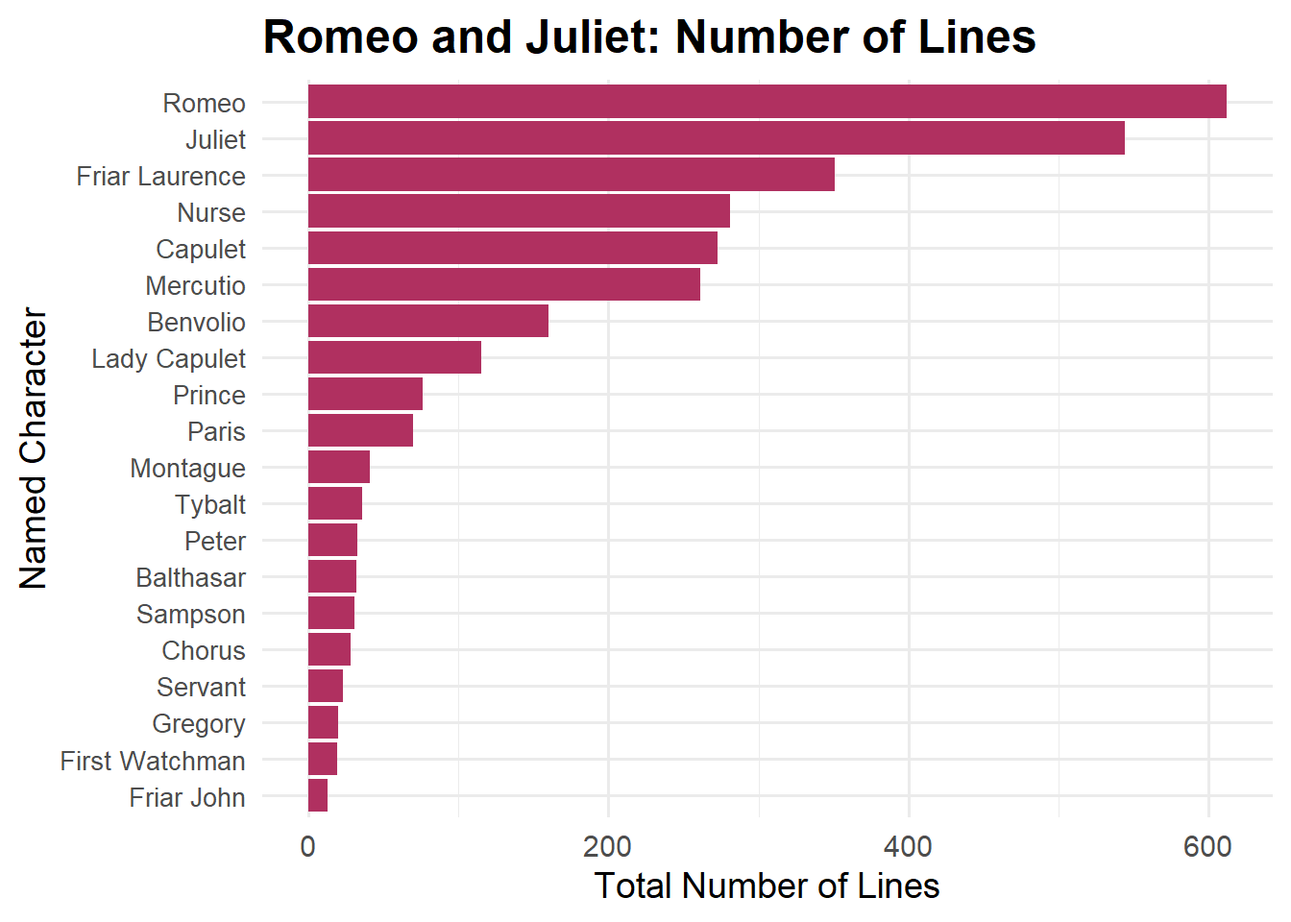
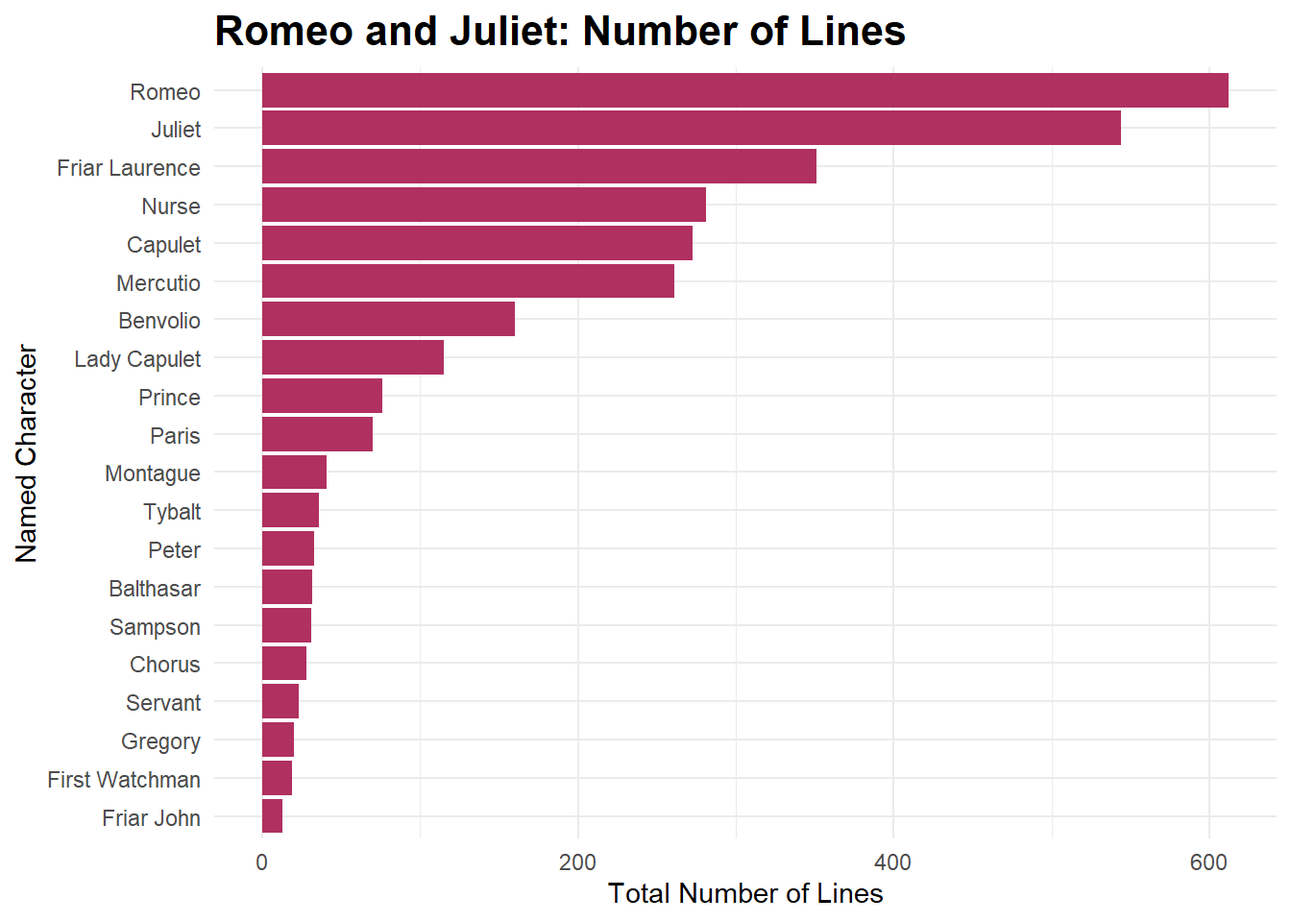
Added a lot of punctuation based graphs lol

diff --git a/docs/tidyv3.html b/docs/tidyv3.html
@@ -220,11 +220,12 @@ pre > code.sourceCode > span > a:first-child::before { text-decoration: underlin
 <span id="cb1-3"><a href="#cb1-3" aria-hidden="true" tabindex="-1"></a><span class="fu">library</span>(ggplot2)</span>
 <span id="cb1-4"><a href="#cb1-4" aria-hidden="true" tabindex="-1"></a><span class="fu">library</span>(dplyr)</span>
 <span id="cb1-5"><a href="#cb1-5" aria-hidden="true" tabindex="-1"></a><span class="fu">library</span>(stringr)</span>
-<span id="cb1-6"><a href="#cb1-6" aria-hidden="true" tabindex="-1"></a></span>
+<span id="cb1-6"><a href="#cb1-6" aria-hidden="true" tabindex="-1"></a><span class="fu">library</span>(forcats)</span>
 <span id="cb1-7"><a href="#cb1-7" aria-hidden="true" tabindex="-1"></a></span>
-<span id="cb1-8"><a href="#cb1-8" aria-hidden="true" tabindex="-1"></a>hamlet <span class="ot">&lt;-</span> readr<span class="sc">::</span><span class="fu">read_csv</span>(<span class="st">'https://raw.githubusercontent.com/rfordatascience/tidytuesday/main/data/2024/2024-09-17/hamlet.csv'</span>)</span>
-<span id="cb1-9"><a href="#cb1-9" aria-hidden="true" tabindex="-1"></a>macbeth <span class="ot">&lt;-</span> readr<span class="sc">::</span><span class="fu">read_csv</span>(<span class="st">'https://raw.githubusercontent.com/rfordatascience/tidytuesday/main/data/2024/2024-09-17/macbeth.csv'</span>)</span>
-<span id="cb1-10"><a href="#cb1-10" aria-hidden="true" tabindex="-1"></a>romeo_juliet <span class="ot">&lt;-</span> readr<span class="sc">::</span><span class="fu">read_csv</span>(<span class="st">'https://raw.githubusercontent.com/rfordatascience/tidytuesday/main/data/2024/2024-09-17/romeo_juliet.csv'</span>)</span></code><button title="Copy to Clipboard" class="code-copy-button"><i class="bi"></i></button></pre></div>
+<span id="cb1-8"><a href="#cb1-8" aria-hidden="true" tabindex="-1"></a></span>
+<span id="cb1-9"><a href="#cb1-9" aria-hidden="true" tabindex="-1"></a>hamlet <span class="ot">&lt;-</span> readr<span class="sc">::</span><span class="fu">read_csv</span>(<span class="st">'https://raw.githubusercontent.com/rfordatascience/tidytuesday/main/data/2024/2024-09-17/hamlet.csv'</span>)</span>
+<span id="cb1-10"><a href="#cb1-10" aria-hidden="true" tabindex="-1"></a>macbeth <span class="ot">&lt;-</span> readr<span class="sc">::</span><span class="fu">read_csv</span>(<span class="st">'https://raw.githubusercontent.com/rfordatascience/tidytuesday/main/data/2024/2024-09-17/macbeth.csv'</span>)</span>
+<span id="cb1-11"><a href="#cb1-11" aria-hidden="true" tabindex="-1"></a>romeo_juliet <span class="ot">&lt;-</span> readr<span class="sc">::</span><span class="fu">read_csv</span>(<span class="st">'https://raw.githubusercontent.com/rfordatascience/tidytuesday/main/data/2024/2024-09-17/romeo_juliet.csv'</span>)</span></code><button title="Copy to Clipboard" class="code-copy-button"><i class="bi"></i></button></pre></div>
 </details>
 </div>
 <div class="cell">
@@ -251,7 +252,9 @@ pre > code.sourceCode > span > a:first-child::before { text-decoration: underlin
 <span id="cb2-19"><a href="#cb2-19" aria-hidden="true" tabindex="-1"></a>  <span class="fu">theme</span>(</span>
 <span id="cb2-20"><a href="#cb2-20" aria-hidden="true" tabindex="-1"></a>    <span class="at">plot.title =</span> <span class="fu">element_text</span>(<span class="at">size =</span> <span class="dv">18</span>, <span class="at">face =</span> <span class="st">"bold"</span>),</span>
 <span id="cb2-21"><a href="#cb2-21" aria-hidden="true" tabindex="-1"></a>    <span class="at">axis.text.y =</span> <span class="fu">element_text</span>(<span class="at">size =</span> <span class="dv">10</span>)</span>
-<span id="cb2-22"><a href="#cb2-22" aria-hidden="true" tabindex="-1"></a>  )</span></code><button title="Copy to Clipboard" class="code-copy-button"><i class="bi"></i></button></pre></div>
+<span id="cb2-22"><a href="#cb2-22" aria-hidden="true" tabindex="-1"></a>  ) <span class="sc">+</span> </span>
+<span id="cb2-23"><a href="#cb2-23" aria-hidden="true" tabindex="-1"></a>  <span class="fu">theme_minimal</span>() <span class="sc">+</span> </span>
+<span id="cb2-24"><a href="#cb2-24" aria-hidden="true" tabindex="-1"></a>  <span class="fu">theme</span>(<span class="at">plot.title =</span> <span class="fu">element_text</span>(<span class="at">size =</span> <span class="dv">16</span>, <span class="at">face =</span> <span class="st">"bold"</span>))</span></code><button title="Copy to Clipboard" class="code-copy-button"><i class="bi"></i></button></pre></div>
 </details>
 <div class="cell-output-display">
 <div>
@@ -285,7 +288,9 @@ pre > code.sourceCode > span > a:first-child::before { text-decoration: underlin
 <span id="cb3-19"><a href="#cb3-19" aria-hidden="true" tabindex="-1"></a>  <span class="fu">theme</span>(</span>
 <span id="cb3-20"><a href="#cb3-20" aria-hidden="true" tabindex="-1"></a>    <span class="at">plot.title =</span> <span class="fu">element_text</span>(<span class="at">size =</span> <span class="dv">18</span>, <span class="at">face =</span> <span class="st">"bold"</span>),</span>
 <span id="cb3-21"><a href="#cb3-21" aria-hidden="true" tabindex="-1"></a>    <span class="at">axis.text.y =</span> <span class="fu">element_text</span>(<span class="at">size =</span> <span class="dv">10</span>)</span>
-<span id="cb3-22"><a href="#cb3-22" aria-hidden="true" tabindex="-1"></a>  )</span></code><button title="Copy to Clipboard" class="code-copy-button"><i class="bi"></i></button></pre></div>
+<span id="cb3-22"><a href="#cb3-22" aria-hidden="true" tabindex="-1"></a>  ) <span class="sc">+</span> </span>
+<span id="cb3-23"><a href="#cb3-23" aria-hidden="true" tabindex="-1"></a>  <span class="fu">theme_minimal</span>() <span class="sc">+</span> </span>
+<span id="cb3-24"><a href="#cb3-24" aria-hidden="true" tabindex="-1"></a>  <span class="fu">theme</span>(<span class="at">plot.title =</span> <span class="fu">element_text</span>(<span class="at">size =</span> <span class="dv">16</span>, <span class="at">face =</span> <span class="st">"bold"</span>))</span></code><button title="Copy to Clipboard" class="code-copy-button"><i class="bi"></i></button></pre></div>
 </details>
 <div class="cell-output-display">
 <div>
@@ -319,7 +324,9 @@ pre > code.sourceCode > span > a:first-child::before { text-decoration: underlin
 <span id="cb4-19"><a href="#cb4-19" aria-hidden="true" tabindex="-1"></a>  <span class="fu">theme</span>(</span>
 <span id="cb4-20"><a href="#cb4-20" aria-hidden="true" tabindex="-1"></a>    <span class="at">plot.title =</span> <span class="fu">element_text</span>(<span class="at">size =</span> <span class="dv">18</span>, <span class="at">face =</span> <span class="st">"bold"</span>),</span>
 <span id="cb4-21"><a href="#cb4-21" aria-hidden="true" tabindex="-1"></a>    <span class="at">axis.text.y =</span> <span class="fu">element_text</span>(<span class="at">size =</span> <span class="dv">10</span>)</span>
-<span id="cb4-22"><a href="#cb4-22" aria-hidden="true" tabindex="-1"></a>  )</span></code><button title="Copy to Clipboard" class="code-copy-button"><i class="bi"></i></button></pre></div>
+<span id="cb4-22"><a href="#cb4-22" aria-hidden="true" tabindex="-1"></a>  ) <span class="sc">+</span> </span>
+<span id="cb4-23"><a href="#cb4-23" aria-hidden="true" tabindex="-1"></a>  <span class="fu">theme_minimal</span>() <span class="sc">+</span> </span>
+<span id="cb4-24"><a href="#cb4-24" aria-hidden="true" tabindex="-1"></a>  <span class="fu">theme</span>(<span class="at">plot.title =</span> <span class="fu">element_text</span>(<span class="at">size =</span> <span class="dv">16</span>, <span class="at">face =</span> <span class="st">"bold"</span>))</span></code><button title="Copy to Clipboard" class="code-copy-button"><i class="bi"></i></button></pre></div>
 </details>
 <div class="cell-output-display">
 <div>
@@ -339,37 +346,22 @@ pre > code.sourceCode > span > a:first-child::before { text-decoration: underlin
 <span id="cb5-5"><a href="#cb5-5" aria-hidden="true" tabindex="-1"></a>)</span>
 <span id="cb5-6"><a href="#cb5-6" aria-hidden="true" tabindex="-1"></a></span>
 <span id="cb5-7"><a href="#cb5-7" aria-hidden="true" tabindex="-1"></a></span>
-<span id="cb5-8"><a href="#cb5-8" aria-hidden="true" tabindex="-1"></a>tragedies_clean <span class="ot">&lt;-</span> tragedies <span class="sc">|&gt;</span></span>
-<span id="cb5-9"><a href="#cb5-9" aria-hidden="true" tabindex="-1"></a>  <span class="fu">mutate</span>(</span>
-<span id="cb5-10"><a href="#cb5-10" aria-hidden="true" tabindex="-1"></a>    <span class="at">dialogue_clean =</span> <span class="fu">str_replace_all</span>(</span>
-<span id="cb5-11"><a href="#cb5-11" aria-hidden="true" tabindex="-1"></a>      dialogue,</span>
-<span id="cb5-12"><a href="#cb5-12" aria-hidden="true" tabindex="-1"></a>      <span class="st">"(?&lt;=</span><span class="sc">\\</span><span class="st">[).*?(?=</span><span class="sc">\\</span><span class="st">])"</span>,  </span>
-<span id="cb5-13"><a href="#cb5-13" aria-hidden="true" tabindex="-1"></a>      <span class="st">""</span>                     </span>
-<span id="cb5-14"><a href="#cb5-14" aria-hidden="true" tabindex="-1"></a>    ), </span>
-<span id="cb5-15"><a href="#cb5-15" aria-hidden="true" tabindex="-1"></a>    <span class="at">dialogue_clean =</span> <span class="fu">str_replace_all</span>(dialogue_clean, <span class="st">"</span><span class="sc">\\</span><span class="st">[</span><span class="sc">\\</span><span class="st">]"</span>, <span class="st">""</span>) </span>
-<span id="cb5-16"><a href="#cb5-16" aria-hidden="true" tabindex="-1"></a>  )</span>
-<span id="cb5-17"><a href="#cb5-17" aria-hidden="true" tabindex="-1"></a></span>
-<span id="cb5-18"><a href="#cb5-18" aria-hidden="true" tabindex="-1"></a></span>
-<span id="cb5-19"><a href="#cb5-19" aria-hidden="true" tabindex="-1"></a>tragedies_names <span class="ot">&lt;-</span> tragedies_clean <span class="sc">|&gt;</span></span>
-<span id="cb5-20"><a href="#cb5-20" aria-hidden="true" tabindex="-1"></a>  <span class="fu">mutate</span>(</span>
-<span id="cb5-21"><a href="#cb5-21" aria-hidden="true" tabindex="-1"></a>    <span class="at">capitalized_words =</span> <span class="fu">str_extract_all</span>(dialogue_clean, <span class="st">"</span><span class="sc">\\</span><span class="st">b[A-Z][a-z]+</span><span class="sc">\\</span><span class="st">b"</span>)</span>
-<span id="cb5-22"><a href="#cb5-22" aria-hidden="true" tabindex="-1"></a>  )</span>
-<span id="cb5-23"><a href="#cb5-23" aria-hidden="true" tabindex="-1"></a></span>
-<span id="cb5-24"><a href="#cb5-24" aria-hidden="true" tabindex="-1"></a></span>
-<span id="cb5-25"><a href="#cb5-25" aria-hidden="true" tabindex="-1"></a>tragedies_questions <span class="ot">&lt;-</span> tragedies_clean <span class="sc">|&gt;</span></span>
-<span id="cb5-26"><a href="#cb5-26" aria-hidden="true" tabindex="-1"></a>  <span class="fu">mutate</span>(<span class="at">num_questions =</span> <span class="fu">str_count</span>(dialogue_clean, <span class="st">"</span><span class="sc">\\</span><span class="st">?"</span>))</span>
-<span id="cb5-27"><a href="#cb5-27" aria-hidden="true" tabindex="-1"></a></span>
-<span id="cb5-28"><a href="#cb5-28" aria-hidden="true" tabindex="-1"></a></span>
-<span id="cb5-29"><a href="#cb5-29" aria-hidden="true" tabindex="-1"></a>tragedies_questions <span class="sc">|&gt;</span></span>
-<span id="cb5-30"><a href="#cb5-30" aria-hidden="true" tabindex="-1"></a>  <span class="fu">group_by</span>(play) <span class="sc">|&gt;</span></span>
-<span id="cb5-31"><a href="#cb5-31" aria-hidden="true" tabindex="-1"></a>  <span class="fu">summarize</span>(<span class="at">avg_questions =</span> <span class="fu">mean</span>(num_questions)) <span class="sc">|&gt;</span></span>
-<span id="cb5-32"><a href="#cb5-32" aria-hidden="true" tabindex="-1"></a>  <span class="fu">ggplot</span>(<span class="fu">aes</span>(<span class="at">x =</span> play, <span class="at">y =</span> avg_questions, <span class="at">fill =</span> play)) <span class="sc">+</span></span>
-<span id="cb5-33"><a href="#cb5-33" aria-hidden="true" tabindex="-1"></a>  <span class="fu">geom_col</span>(<span class="at">show.legend =</span> <span class="cn">FALSE</span>) <span class="sc">+</span></span>
-<span id="cb5-34"><a href="#cb5-34" aria-hidden="true" tabindex="-1"></a>  <span class="fu">labs</span>(</span>
-<span id="cb5-35"><a href="#cb5-35" aria-hidden="true" tabindex="-1"></a>    <span class="at">title =</span> <span class="st">"Average Number of Questions per Line by Play"</span>, </span>
-<span id="cb5-36"><a href="#cb5-36" aria-hidden="true" tabindex="-1"></a>    <span class="at">x =</span> <span class="st">"Play"</span>, </span>
-<span id="cb5-37"><a href="#cb5-37" aria-hidden="true" tabindex="-1"></a>    <span class="at">y =</span> <span class="st">"Number of Questions"</span></span>
-<span id="cb5-38"><a href="#cb5-38" aria-hidden="true" tabindex="-1"></a>    )</span></code><button title="Copy to Clipboard" class="code-copy-button"><i class="bi"></i></button></pre></div>
+<span id="cb5-8"><a href="#cb5-8" aria-hidden="true" tabindex="-1"></a>tragedies_questions <span class="ot">&lt;-</span> tragedies <span class="sc">|&gt;</span></span>
+<span id="cb5-9"><a href="#cb5-9" aria-hidden="true" tabindex="-1"></a>  <span class="fu">mutate</span>(<span class="at">num_questions =</span> <span class="fu">str_count</span>(dialogue, <span class="st">"</span><span class="sc">\\</span><span class="st">?"</span>))</span>
+<span id="cb5-10"><a href="#cb5-10" aria-hidden="true" tabindex="-1"></a></span>
+<span id="cb5-11"><a href="#cb5-11" aria-hidden="true" tabindex="-1"></a></span>
+<span id="cb5-12"><a href="#cb5-12" aria-hidden="true" tabindex="-1"></a>tragedies_questions <span class="sc">|&gt;</span></span>
+<span id="cb5-13"><a href="#cb5-13" aria-hidden="true" tabindex="-1"></a>  <span class="fu">group_by</span>(play) <span class="sc">|&gt;</span></span>
+<span id="cb5-14"><a href="#cb5-14" aria-hidden="true" tabindex="-1"></a>  <span class="fu">summarize</span>(<span class="at">avg_questions =</span> <span class="fu">mean</span>(num_questions)) <span class="sc">|&gt;</span></span>
+<span id="cb5-15"><a href="#cb5-15" aria-hidden="true" tabindex="-1"></a>  <span class="fu">ggplot</span>(<span class="fu">aes</span>(<span class="at">x =</span> play, <span class="at">y =</span> avg_questions, <span class="at">fill =</span> play)) <span class="sc">+</span></span>
+<span id="cb5-16"><a href="#cb5-16" aria-hidden="true" tabindex="-1"></a>  <span class="fu">geom_col</span>(<span class="at">show.legend =</span> <span class="cn">FALSE</span>) <span class="sc">+</span></span>
+<span id="cb5-17"><a href="#cb5-17" aria-hidden="true" tabindex="-1"></a>  <span class="fu">labs</span>(</span>
+<span id="cb5-18"><a href="#cb5-18" aria-hidden="true" tabindex="-1"></a>    <span class="at">title =</span> <span class="st">"Average Number of Questions per Line by Play"</span>, </span>
+<span id="cb5-19"><a href="#cb5-19" aria-hidden="true" tabindex="-1"></a>    <span class="at">x =</span> <span class="st">"Play"</span>, </span>
+<span id="cb5-20"><a href="#cb5-20" aria-hidden="true" tabindex="-1"></a>    <span class="at">y =</span> <span class="st">"Number of Questions"</span></span>
+<span id="cb5-21"><a href="#cb5-21" aria-hidden="true" tabindex="-1"></a>    ) <span class="sc">+</span> </span>
+<span id="cb5-22"><a href="#cb5-22" aria-hidden="true" tabindex="-1"></a>  <span class="fu">theme_minimal</span>() <span class="sc">+</span> </span>
+<span id="cb5-23"><a href="#cb5-23" aria-hidden="true" tabindex="-1"></a>  <span class="fu">theme</span>(<span class="at">plot.title =</span> <span class="fu">element_text</span>(<span class="at">size =</span> <span class="dv">16</span>, <span class="at">face =</span> <span class="st">"bold"</span>))</span></code><button title="Copy to Clipboard" class="code-copy-button"><i class="bi"></i></button></pre></div>
 </details>
 <div class="cell-output-display">
 <div>
@@ -390,37 +382,140 @@ pre > code.sourceCode > span > a:first-child::before { text-decoration: underlin
 <span id="cb6-6"><a href="#cb6-6" aria-hidden="true" tabindex="-1"></a></span>
 <span id="cb6-7"><a href="#cb6-7" aria-hidden="true" tabindex="-1"></a></span>
 <span id="cb6-8"><a href="#cb6-8" aria-hidden="true" tabindex="-1"></a>tragedies_ghosts <span class="ot">&lt;-</span> tragedies <span class="sc">|&gt;</span></span>
-<span id="cb6-9"><a href="#cb6-9" aria-hidden="true" tabindex="-1"></a>  <span class="fu">filter</span>(<span class="fu">str_detect</span>(dialogue, <span class="fu">regex</span>(<span class="st">"</span><span class="sc">\\</span><span class="st">b(ghost|witch|spirit)</span><span class="sc">\\</span><span class="st">b"</span>, <span class="at">ignore_case =</span> <span class="cn">TRUE</span>)))</span>
-<span id="cb6-10"><a href="#cb6-10" aria-hidden="true" tabindex="-1"></a></span>
-<span id="cb6-11"><a href="#cb6-11" aria-hidden="true" tabindex="-1"></a></span>
-<span id="cb6-12"><a href="#cb6-12" aria-hidden="true" tabindex="-1"></a>ghost_mentions <span class="ot">&lt;-</span> tragedies_ghosts <span class="sc">|&gt;</span></span>
-<span id="cb6-13"><a href="#cb6-13" aria-hidden="true" tabindex="-1"></a>  <span class="fu">mutate</span>(</span>
-<span id="cb6-14"><a href="#cb6-14" aria-hidden="true" tabindex="-1"></a>    <span class="at">supernatural =</span> <span class="fu">str_extract</span>(</span>
-<span id="cb6-15"><a href="#cb6-15" aria-hidden="true" tabindex="-1"></a>      <span class="fu">str_to_lower</span>(dialogue),</span>
-<span id="cb6-16"><a href="#cb6-16" aria-hidden="true" tabindex="-1"></a>      <span class="st">"</span><span class="sc">\\</span><span class="st">b(ghost|witch|spirit)</span><span class="sc">\\</span><span class="st">b"</span></span>
-<span id="cb6-17"><a href="#cb6-17" aria-hidden="true" tabindex="-1"></a>    )</span>
-<span id="cb6-18"><a href="#cb6-18" aria-hidden="true" tabindex="-1"></a>  ) <span class="sc">|&gt;</span></span>
-<span id="cb6-19"><a href="#cb6-19" aria-hidden="true" tabindex="-1"></a>  <span class="fu">count</span>(play, supernatural, <span class="at">name =</span> <span class="st">"num_mentions"</span>)</span>
-<span id="cb6-20"><a href="#cb6-20" aria-hidden="true" tabindex="-1"></a></span>
-<span id="cb6-21"><a href="#cb6-21" aria-hidden="true" tabindex="-1"></a></span>
-<span id="cb6-22"><a href="#cb6-22" aria-hidden="true" tabindex="-1"></a><span class="fu">ggplot</span>(ghost_mentions, <span class="fu">aes</span>(<span class="at">x =</span> play, <span class="at">y =</span> num_mentions, <span class="at">fill =</span> supernatural)) <span class="sc">+</span></span>
-<span id="cb6-23"><a href="#cb6-23" aria-hidden="true" tabindex="-1"></a>  <span class="fu">geom_col</span>(<span class="at">position =</span> <span class="st">"dodge"</span>) <span class="sc">+</span></span>
-<span id="cb6-24"><a href="#cb6-24" aria-hidden="true" tabindex="-1"></a>  <span class="fu">labs</span>(</span>
-<span id="cb6-25"><a href="#cb6-25" aria-hidden="true" tabindex="-1"></a>    <span class="at">title =</span> <span class="st">"Mentions of 'Ghost', 'Witch', and 'Spirit' in Shakespeare's Tragedies"</span>,</span>
-<span id="cb6-26"><a href="#cb6-26" aria-hidden="true" tabindex="-1"></a>    <span class="at">x =</span> <span class="st">"Play"</span>,</span>
-<span id="cb6-27"><a href="#cb6-27" aria-hidden="true" tabindex="-1"></a>    <span class="at">y =</span> <span class="st">"Number of Mentions"</span>,</span>
-<span id="cb6-28"><a href="#cb6-28" aria-hidden="true" tabindex="-1"></a>    <span class="at">fill =</span> <span class="st">""</span></span>
-<span id="cb6-29"><a href="#cb6-29" aria-hidden="true" tabindex="-1"></a>  ) <span class="sc">+</span></span>
-<span id="cb6-30"><a href="#cb6-30" aria-hidden="true" tabindex="-1"></a>  <span class="fu">theme_minimal</span>(<span class="at">base_size =</span> <span class="dv">14</span>) <span class="sc">+</span></span>
-<span id="cb6-31"><a href="#cb6-31" aria-hidden="true" tabindex="-1"></a>  <span class="fu">theme</span>(</span>
-<span id="cb6-32"><a href="#cb6-32" aria-hidden="true" tabindex="-1"></a>    <span class="at">plot.title =</span> <span class="fu">element_text</span>(<span class="at">size =</span> <span class="dv">18</span>, <span class="at">face =</span> <span class="st">"bold"</span>),</span>
-<span id="cb6-33"><a href="#cb6-33" aria-hidden="true" tabindex="-1"></a>    <span class="at">legend.position =</span> <span class="st">"top"</span></span>
-<span id="cb6-34"><a href="#cb6-34" aria-hidden="true" tabindex="-1"></a>  )</span></code><button title="Copy to Clipboard" class="code-copy-button"><i class="bi"></i></button></pre></div>
+<span id="cb6-9"><a href="#cb6-9" aria-hidden="true" tabindex="-1"></a>  <span class="fu">filter</span>(<span class="fu">str_detect</span>(dialogue, <span class="st">"</span><span class="sc">\\</span><span class="st">b(ghost|witch|spirit)</span><span class="sc">\\</span><span class="st">b"</span>)) <span class="sc">|&gt;</span></span>
+<span id="cb6-10"><a href="#cb6-10" aria-hidden="true" tabindex="-1"></a>  <span class="fu">select</span>(play, dialogue) <span class="sc">|&gt;</span></span>
+<span id="cb6-11"><a href="#cb6-11" aria-hidden="true" tabindex="-1"></a>  <span class="fu">mutate</span>(<span class="at">supernatural =</span> <span class="fu">str_extract</span>(<span class="fu">str_to_lower</span>(dialogue), <span class="st">"</span><span class="sc">\\</span><span class="st">b(ghost|witch|spirit)</span><span class="sc">\\</span><span class="st">b"</span> )) <span class="sc">|&gt;</span></span>
+<span id="cb6-12"><a href="#cb6-12" aria-hidden="true" tabindex="-1"></a>  <span class="fu">count</span>(play, supernatural, <span class="at">name =</span> <span class="st">"num_mentions"</span>)</span>
+<span id="cb6-13"><a href="#cb6-13" aria-hidden="true" tabindex="-1"></a></span>
+<span id="cb6-14"><a href="#cb6-14" aria-hidden="true" tabindex="-1"></a></span>
+<span id="cb6-15"><a href="#cb6-15" aria-hidden="true" tabindex="-1"></a></span>
+<span id="cb6-16"><a href="#cb6-16" aria-hidden="true" tabindex="-1"></a><span class="fu">ggplot</span>(tragedies_ghosts, <span class="fu">aes</span>(<span class="at">x =</span> play, <span class="at">y =</span> num_mentions, <span class="at">fill =</span> supernatural)) <span class="sc">+</span></span>
+<span id="cb6-17"><a href="#cb6-17" aria-hidden="true" tabindex="-1"></a>  <span class="fu">geom_col</span>(<span class="at">position =</span> <span class="st">"dodge"</span>) <span class="sc">+</span></span>
+<span id="cb6-18"><a href="#cb6-18" aria-hidden="true" tabindex="-1"></a>  <span class="fu">labs</span>(</span>
+<span id="cb6-19"><a href="#cb6-19" aria-hidden="true" tabindex="-1"></a>    <span class="at">title =</span> <span class="st">"Mentions of 'Ghost', 'Witch', and 'Spirit' in Shakespeare's Tragedies"</span>,</span>
+<span id="cb6-20"><a href="#cb6-20" aria-hidden="true" tabindex="-1"></a>    <span class="at">x =</span> <span class="st">"Play"</span>,</span>
+<span id="cb6-21"><a href="#cb6-21" aria-hidden="true" tabindex="-1"></a>    <span class="at">y =</span> <span class="st">"Number of Mentions"</span>,</span>
+<span id="cb6-22"><a href="#cb6-22" aria-hidden="true" tabindex="-1"></a>    <span class="at">fill =</span> <span class="st">""</span> </span>
+<span id="cb6-23"><a href="#cb6-23" aria-hidden="true" tabindex="-1"></a>    ) <span class="sc">+</span> </span>
+<span id="cb6-24"><a href="#cb6-24" aria-hidden="true" tabindex="-1"></a>  <span class="fu">theme_minimal</span>() <span class="sc">+</span> </span>
+<span id="cb6-25"><a href="#cb6-25" aria-hidden="true" tabindex="-1"></a>  <span class="fu">theme</span>(<span class="at">plot.title =</span> <span class="fu">element_text</span>(<span class="at">size =</span> <span class="dv">16</span>, <span class="at">face =</span> <span class="st">"bold"</span>))</span></code><button title="Copy to Clipboard" class="code-copy-button"><i class="bi"></i></button></pre></div>
 </details>
 <div class="cell-output-display">
 <div>
 <figure class="figure">
 <p><img src="tidyv3_files/figure-html/unnamed-chunk-6-1.png" class="img-fluid figure-img" width="672"></p>
+</figure>
+</div>
+</div>
+</div>
+<div class="cell">
+<details class="code-fold">
+<summary>Show the code</summary>
+<div class="sourceCode cell-code" id="cb7"><pre class="sourceCode r code-with-copy"><code class="sourceCode r"><span id="cb7-1"><a href="#cb7-1" aria-hidden="true" tabindex="-1"></a>tragedies_exclaim <span class="ot">&lt;-</span> tragedies <span class="sc">|&gt;</span></span>
+<span id="cb7-2"><a href="#cb7-2" aria-hidden="true" tabindex="-1"></a>  <span class="fu">filter</span>(<span class="fu">str_detect</span>(dialogue, <span class="st">"(?i)</span><span class="sc">\\</span><span class="st">bHamlet!+|Macbeth!+|Romeo!+|Juliet!+"</span>)) <span class="sc">|&gt;</span></span>
+<span id="cb7-3"><a href="#cb7-3" aria-hidden="true" tabindex="-1"></a>  <span class="fu">mutate</span>(<span class="at">exclamations =</span> <span class="fu">str_extract</span>(dialogue, <span class="st">"(?i)</span><span class="sc">\\</span><span class="st">bHamlet!+|Macbeth!+|Romeo!+|Juliet!+"</span>)) <span class="sc">|&gt;</span></span>
+<span id="cb7-4"><a href="#cb7-4" aria-hidden="true" tabindex="-1"></a>  <span class="fu">count</span>(play, exclamations, <span class="at">name =</span> <span class="st">"num_exclaim"</span>) <span class="sc">|&gt;</span></span>
+<span id="cb7-5"><a href="#cb7-5" aria-hidden="true" tabindex="-1"></a>  <span class="fu">mutate</span>(<span class="at">exclamations =</span> <span class="fu">fct_relevel</span>(exclamations, <span class="fu">c</span>(<span class="st">"Hamlet!"</span>, <span class="st">"Macbeth!"</span>, <span class="st">"Romeo!"</span>, <span class="st">"Juliet!"</span>)))</span>
+<span id="cb7-6"><a href="#cb7-6" aria-hidden="true" tabindex="-1"></a></span>
+<span id="cb7-7"><a href="#cb7-7" aria-hidden="true" tabindex="-1"></a></span>
+<span id="cb7-8"><a href="#cb7-8" aria-hidden="true" tabindex="-1"></a></span>
+<span id="cb7-9"><a href="#cb7-9" aria-hidden="true" tabindex="-1"></a><span class="fu">ggplot</span>(tragedies_exclaim, <span class="fu">aes</span>(<span class="at">x =</span> exclamations, <span class="at">y =</span> num_exclaim, <span class="at">fill =</span> exclamations)) <span class="sc">+</span></span>
+<span id="cb7-10"><a href="#cb7-10" aria-hidden="true" tabindex="-1"></a>  <span class="fu">geom_col</span>(<span class="at">position =</span> <span class="st">"dodge"</span>) <span class="sc">+</span></span>
+<span id="cb7-11"><a href="#cb7-11" aria-hidden="true" tabindex="-1"></a>  <span class="fu">labs</span>(</span>
+<span id="cb7-12"><a href="#cb7-12" aria-hidden="true" tabindex="-1"></a>    <span class="at">title =</span> <span class="st">"Number of times the main character's name is exclaimed"</span>,</span>
+<span id="cb7-13"><a href="#cb7-13" aria-hidden="true" tabindex="-1"></a>    <span class="at">x =</span> <span class="st">"Play"</span>,</span>
+<span id="cb7-14"><a href="#cb7-14" aria-hidden="true" tabindex="-1"></a>    <span class="at">y =</span> <span class="st">"Number of Mentions"</span>,</span>
+<span id="cb7-15"><a href="#cb7-15" aria-hidden="true" tabindex="-1"></a>    <span class="at">fill =</span> <span class="st">""</span> </span>
+<span id="cb7-16"><a href="#cb7-16" aria-hidden="true" tabindex="-1"></a>    ) <span class="sc">+</span></span>
+<span id="cb7-17"><a href="#cb7-17" aria-hidden="true" tabindex="-1"></a>  <span class="fu">theme_minimal</span>() <span class="sc">+</span> </span>
+<span id="cb7-18"><a href="#cb7-18" aria-hidden="true" tabindex="-1"></a>  <span class="fu">theme</span>(<span class="at">plot.title =</span> <span class="fu">element_text</span>(<span class="at">size =</span> <span class="dv">16</span>, <span class="at">face =</span> <span class="st">"bold"</span>))</span></code><button title="Copy to Clipboard" class="code-copy-button"><i class="bi"></i></button></pre></div>
+</details>
+<div class="cell-output-display">
+<div>
+<figure class="figure">
+<p><img src="tidyv3_files/figure-html/unnamed-chunk-7-1.png" class="img-fluid figure-img" width="672"></p>
+</figure>
+</div>
+</div>
+</div>
+<div class="cell">
+<details class="code-fold">
+<summary>Show the code</summary>
+<div class="sourceCode cell-code" id="cb8"><pre class="sourceCode r code-with-copy"><code class="sourceCode r"><span id="cb8-1"><a href="#cb8-1" aria-hidden="true" tabindex="-1"></a>tragedies_exclaimers <span class="ot">&lt;-</span> tragedies <span class="sc">|&gt;</span></span>
+<span id="cb8-2"><a href="#cb8-2" aria-hidden="true" tabindex="-1"></a>  <span class="fu">filter</span>(<span class="fu">str_detect</span>(dialogue, <span class="st">"(?i)</span><span class="sc">\\</span><span class="st">b(Hamlet|Macbeth|Romeo|Juliet)!+"</span>)) <span class="sc">|&gt;</span> </span>
+<span id="cb8-3"><a href="#cb8-3" aria-hidden="true" tabindex="-1"></a>  <span class="fu">mutate</span>(</span>
+<span id="cb8-4"><a href="#cb8-4" aria-hidden="true" tabindex="-1"></a>    <span class="at">exclamations =</span> <span class="fu">str_extract</span>(dialogue, <span class="st">"(?i)</span><span class="sc">\\</span><span class="st">b(Hamlet|Macbeth|Romeo|Juliet)!+"</span>),</span>
+<span id="cb8-5"><a href="#cb8-5" aria-hidden="true" tabindex="-1"></a>    <span class="at">exclamations =</span> <span class="fu">str_to_title</span>(exclamations)  </span>
+<span id="cb8-6"><a href="#cb8-6" aria-hidden="true" tabindex="-1"></a>  ) <span class="sc">|&gt;</span></span>
+<span id="cb8-7"><a href="#cb8-7" aria-hidden="true" tabindex="-1"></a>  <span class="fu">count</span>(play, character, exclamations, <span class="at">name =</span> <span class="st">"num_exclaim"</span>) <span class="sc">|&gt;</span></span>
+<span id="cb8-8"><a href="#cb8-8" aria-hidden="true" tabindex="-1"></a>  <span class="fu">arrange</span>(<span class="fu">desc</span>(num_exclaim))</span>
+<span id="cb8-9"><a href="#cb8-9" aria-hidden="true" tabindex="-1"></a></span>
+<span id="cb8-10"><a href="#cb8-10" aria-hidden="true" tabindex="-1"></a><span class="co"># Optionally, focus on the top 10 loudest shouters</span></span>
+<span id="cb8-11"><a href="#cb8-11" aria-hidden="true" tabindex="-1"></a>top_exclaimers <span class="ot">&lt;-</span> tragedies_exclaimers <span class="sc">|&gt;</span> </span>
+<span id="cb8-12"><a href="#cb8-12" aria-hidden="true" tabindex="-1"></a>  <span class="fu">slice_max</span>(num_exclaim, <span class="at">n =</span> <span class="dv">10</span>)</span>
+<span id="cb8-13"><a href="#cb8-13" aria-hidden="true" tabindex="-1"></a></span>
+<span id="cb8-14"><a href="#cb8-14" aria-hidden="true" tabindex="-1"></a><span class="fu">ggplot</span>(top_exclaimers, <span class="fu">aes</span>(</span>
+<span id="cb8-15"><a href="#cb8-15" aria-hidden="true" tabindex="-1"></a>  <span class="at">x =</span> <span class="fu">reorder</span>(character, num_exclaim),</span>
+<span id="cb8-16"><a href="#cb8-16" aria-hidden="true" tabindex="-1"></a>  <span class="at">y =</span> num_exclaim,</span>
+<span id="cb8-17"><a href="#cb8-17" aria-hidden="true" tabindex="-1"></a>  <span class="at">fill =</span> exclamations</span>
+<span id="cb8-18"><a href="#cb8-18" aria-hidden="true" tabindex="-1"></a>)) <span class="sc">+</span></span>
+<span id="cb8-19"><a href="#cb8-19" aria-hidden="true" tabindex="-1"></a>  <span class="fu">geom_col</span>() <span class="sc">+</span></span>
+<span id="cb8-20"><a href="#cb8-20" aria-hidden="true" tabindex="-1"></a>  <span class="fu">coord_flip</span>() <span class="sc">+</span></span>
+<span id="cb8-21"><a href="#cb8-21" aria-hidden="true" tabindex="-1"></a>  <span class="fu">labs</span>(</span>
+<span id="cb8-22"><a href="#cb8-22" aria-hidden="true" tabindex="-1"></a>    <span class="at">title =</span> <span class="st">"Top 10 Characters Who Shout Names the Most"</span>,</span>
+<span id="cb8-23"><a href="#cb8-23" aria-hidden="true" tabindex="-1"></a>    <span class="at">subtitle =</span> <span class="st">"Colored by which name they exclaim"</span>,</span>
+<span id="cb8-24"><a href="#cb8-24" aria-hidden="true" tabindex="-1"></a>    <span class="at">x =</span> <span class="st">"Character"</span>,</span>
+<span id="cb8-25"><a href="#cb8-25" aria-hidden="true" tabindex="-1"></a>    <span class="at">y =</span> <span class="st">"Number of Exclamations"</span>,</span>
+<span id="cb8-26"><a href="#cb8-26" aria-hidden="true" tabindex="-1"></a>    <span class="at">fill =</span> <span class="st">"Name Shouted"</span></span>
+<span id="cb8-27"><a href="#cb8-27" aria-hidden="true" tabindex="-1"></a>  ) <span class="sc">+</span></span>
+<span id="cb8-28"><a href="#cb8-28" aria-hidden="true" tabindex="-1"></a>  <span class="fu">theme_minimal</span>() <span class="sc">+</span> </span>
+<span id="cb8-29"><a href="#cb8-29" aria-hidden="true" tabindex="-1"></a>  <span class="fu">theme</span>(<span class="at">plot.title =</span> <span class="fu">element_text</span>(<span class="at">size =</span> <span class="dv">16</span>, <span class="at">face =</span> <span class="st">"bold"</span>))</span></code><button title="Copy to Clipboard" class="code-copy-button"><i class="bi"></i></button></pre></div>
+</details>
+<div class="cell-output-display">
+<div>
+<figure class="figure">
+<p><img src="tidyv3_files/figure-html/unnamed-chunk-8-1.png" class="img-fluid figure-img" width="672"></p>
+</figure>
+</div>
+</div>
+</div>
+<div class="cell">
+<details class="code-fold">
+<summary>Show the code</summary>
+<div class="sourceCode cell-code" id="cb9"><pre class="sourceCode r code-with-copy"><code class="sourceCode r"><span id="cb9-1"><a href="#cb9-1" aria-hidden="true" tabindex="-1"></a>tragedies_exclaimers <span class="ot">&lt;-</span> tragedies <span class="sc">|&gt;</span></span>
+<span id="cb9-2"><a href="#cb9-2" aria-hidden="true" tabindex="-1"></a>  <span class="fu">filter</span>(<span class="fu">str_detect</span>(dialogue, <span class="st">"(?i)!+"</span>)) <span class="sc">|&gt;</span> </span>
+<span id="cb9-3"><a href="#cb9-3" aria-hidden="true" tabindex="-1"></a>  <span class="fu">mutate</span>(</span>
+<span id="cb9-4"><a href="#cb9-4" aria-hidden="true" tabindex="-1"></a>    <span class="at">exclamations =</span> <span class="fu">str_extract</span>(dialogue, <span class="st">"(?i)!+"</span>),</span>
+<span id="cb9-5"><a href="#cb9-5" aria-hidden="true" tabindex="-1"></a>    <span class="at">exclamations =</span> <span class="fu">str_to_title</span>(exclamations)  </span>
+<span id="cb9-6"><a href="#cb9-6" aria-hidden="true" tabindex="-1"></a>  ) <span class="sc">|&gt;</span></span>
+<span id="cb9-7"><a href="#cb9-7" aria-hidden="true" tabindex="-1"></a>  <span class="fu">count</span>(play, character, exclamations, <span class="at">name =</span> <span class="st">"num_exclaim"</span>) <span class="sc">|&gt;</span></span>
+<span id="cb9-8"><a href="#cb9-8" aria-hidden="true" tabindex="-1"></a>  <span class="fu">arrange</span>(<span class="fu">desc</span>(num_exclaim))</span>
+<span id="cb9-9"><a href="#cb9-9" aria-hidden="true" tabindex="-1"></a></span>
+<span id="cb9-10"><a href="#cb9-10" aria-hidden="true" tabindex="-1"></a><span class="co"># Optionally, focus on the top 10 loudest shouters</span></span>
+<span id="cb9-11"><a href="#cb9-11" aria-hidden="true" tabindex="-1"></a>top_exclaimers <span class="ot">&lt;-</span> tragedies_exclaimers <span class="sc">|&gt;</span> </span>
+<span id="cb9-12"><a href="#cb9-12" aria-hidden="true" tabindex="-1"></a>  <span class="fu">slice_max</span>(num_exclaim, <span class="at">n =</span> <span class="dv">10</span>)</span>
+<span id="cb9-13"><a href="#cb9-13" aria-hidden="true" tabindex="-1"></a></span>
+<span id="cb9-14"><a href="#cb9-14" aria-hidden="true" tabindex="-1"></a><span class="fu">ggplot</span>(top_exclaimers, <span class="fu">aes</span>(</span>
+<span id="cb9-15"><a href="#cb9-15" aria-hidden="true" tabindex="-1"></a>  <span class="at">x =</span> <span class="fu">reorder</span>(character, num_exclaim),</span>
+<span id="cb9-16"><a href="#cb9-16" aria-hidden="true" tabindex="-1"></a>  <span class="at">y =</span> num_exclaim,</span>
+<span id="cb9-17"><a href="#cb9-17" aria-hidden="true" tabindex="-1"></a>  <span class="at">fill =</span> play</span>
+<span id="cb9-18"><a href="#cb9-18" aria-hidden="true" tabindex="-1"></a>)) <span class="sc">+</span></span>
+<span id="cb9-19"><a href="#cb9-19" aria-hidden="true" tabindex="-1"></a>  <span class="fu">geom_col</span>(<span class="at">position =</span> <span class="st">"dodge"</span>) <span class="sc">+</span></span>
+<span id="cb9-20"><a href="#cb9-20" aria-hidden="true" tabindex="-1"></a>  <span class="fu">coord_flip</span>() <span class="sc">+</span></span>
+<span id="cb9-21"><a href="#cb9-21" aria-hidden="true" tabindex="-1"></a>  <span class="fu">labs</span>(</span>
+<span id="cb9-22"><a href="#cb9-22" aria-hidden="true" tabindex="-1"></a>    <span class="at">title =</span> <span class="st">"Criers"</span>,</span>
+<span id="cb9-23"><a href="#cb9-23" aria-hidden="true" tabindex="-1"></a>    <span class="at">subtitle =</span> <span class="st">"Characters in Shakespeare's Tragedies who Exclaim the Most"</span>,</span>
+<span id="cb9-24"><a href="#cb9-24" aria-hidden="true" tabindex="-1"></a>    <span class="at">x =</span> <span class="st">"Character"</span>,</span>
+<span id="cb9-25"><a href="#cb9-25" aria-hidden="true" tabindex="-1"></a>    <span class="at">y =</span> <span class="st">"Number of Exclamations"</span>,</span>
+<span id="cb9-26"><a href="#cb9-26" aria-hidden="true" tabindex="-1"></a>    <span class="at">fill =</span> <span class="st">""</span></span>
+<span id="cb9-27"><a href="#cb9-27" aria-hidden="true" tabindex="-1"></a>  ) <span class="sc">+</span></span>
+<span id="cb9-28"><a href="#cb9-28" aria-hidden="true" tabindex="-1"></a>  <span class="fu">theme_minimal</span>() <span class="sc">+</span> </span>
+<span id="cb9-29"><a href="#cb9-29" aria-hidden="true" tabindex="-1"></a>  <span class="fu">theme</span>(<span class="at">plot.title =</span> <span class="fu">element_text</span>(<span class="at">size =</span> <span class="dv">16</span>, <span class="at">face =</span> <span class="st">"bold"</span>))</span></code><button title="Copy to Clipboard" class="code-copy-button"><i class="bi"></i></button></pre></div>
+</details>
+<div class="cell-output-display">
+<div>
+<figure class="figure">
+<p><img src="tidyv3_files/figure-html/unnamed-chunk-9-1.png" class="img-fluid figure-img" width="672"></p>
 </figure>
 </div>
 </div>
